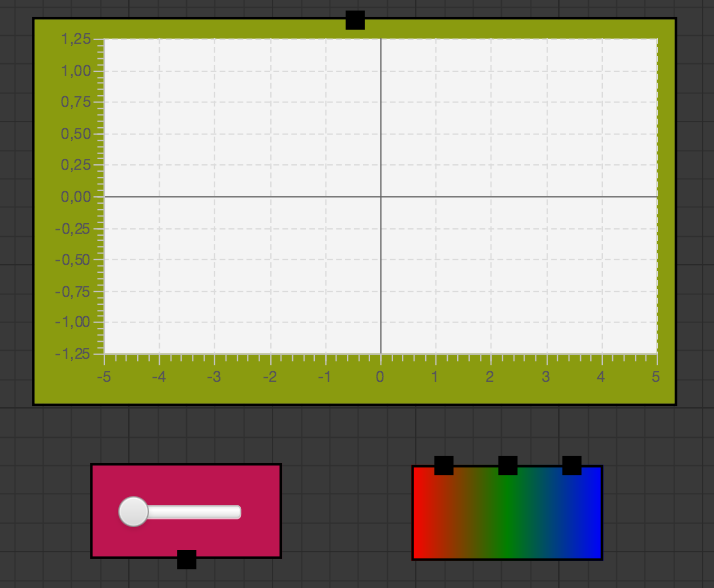
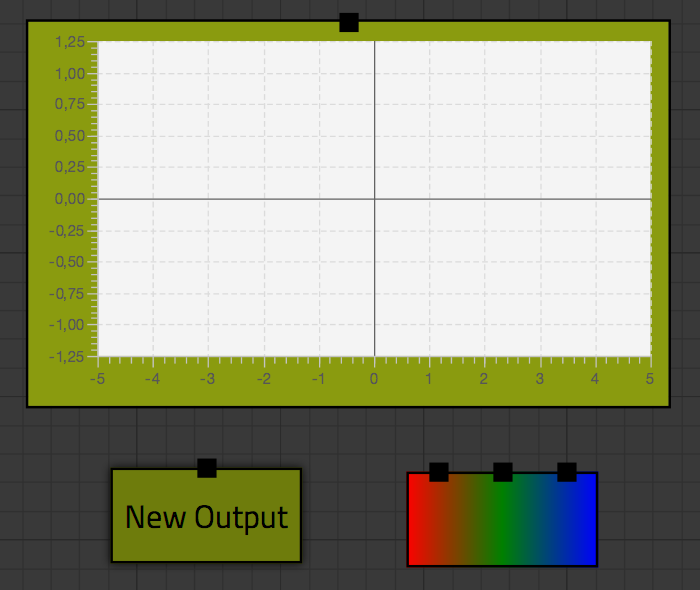
Fix input- and output block images

Changed region(s): [[0.03, 0.0, 0.96, 0.7041], [0.12, 0.7653, 0.45, 0.9796], [0.57, 0.7653, 0.87, 0.9796]]

diff --git a/Report/Chapters/Design.tex b/Report/Chapters/Design.tex
@@ -23,12 +23,12 @@ The first kind in an input block, which represents a constant value.
 This input block can be connected to other blocks to use the value as an input.
 Besides the most basic input block, the value block which takes a string as input and automatically detects the type, there is also a slider available.
 
-%\begin{figure}[h]
-%	\centering
-%	\includegraphics[scale=0.5]{Images/block-inputs}
-%	\label{fig:blocks-inputs}
-%	\caption{Different input blocks}
-%\end{figure}
+\begin{figure}[p]
+	\centering
+	\includegraphics[scale=0.5]{Images/blocks-inputs}
+	\label{fig:blocks-inputs}
+	\caption{Different input blocks}
+\end{figure}
 
 The second kind of block is a function block. This block has a number of inputs and a single output, and defines the number of inputs that are going to be used.
 The number of inputs can be changed by moving a knot over the function arguments.
